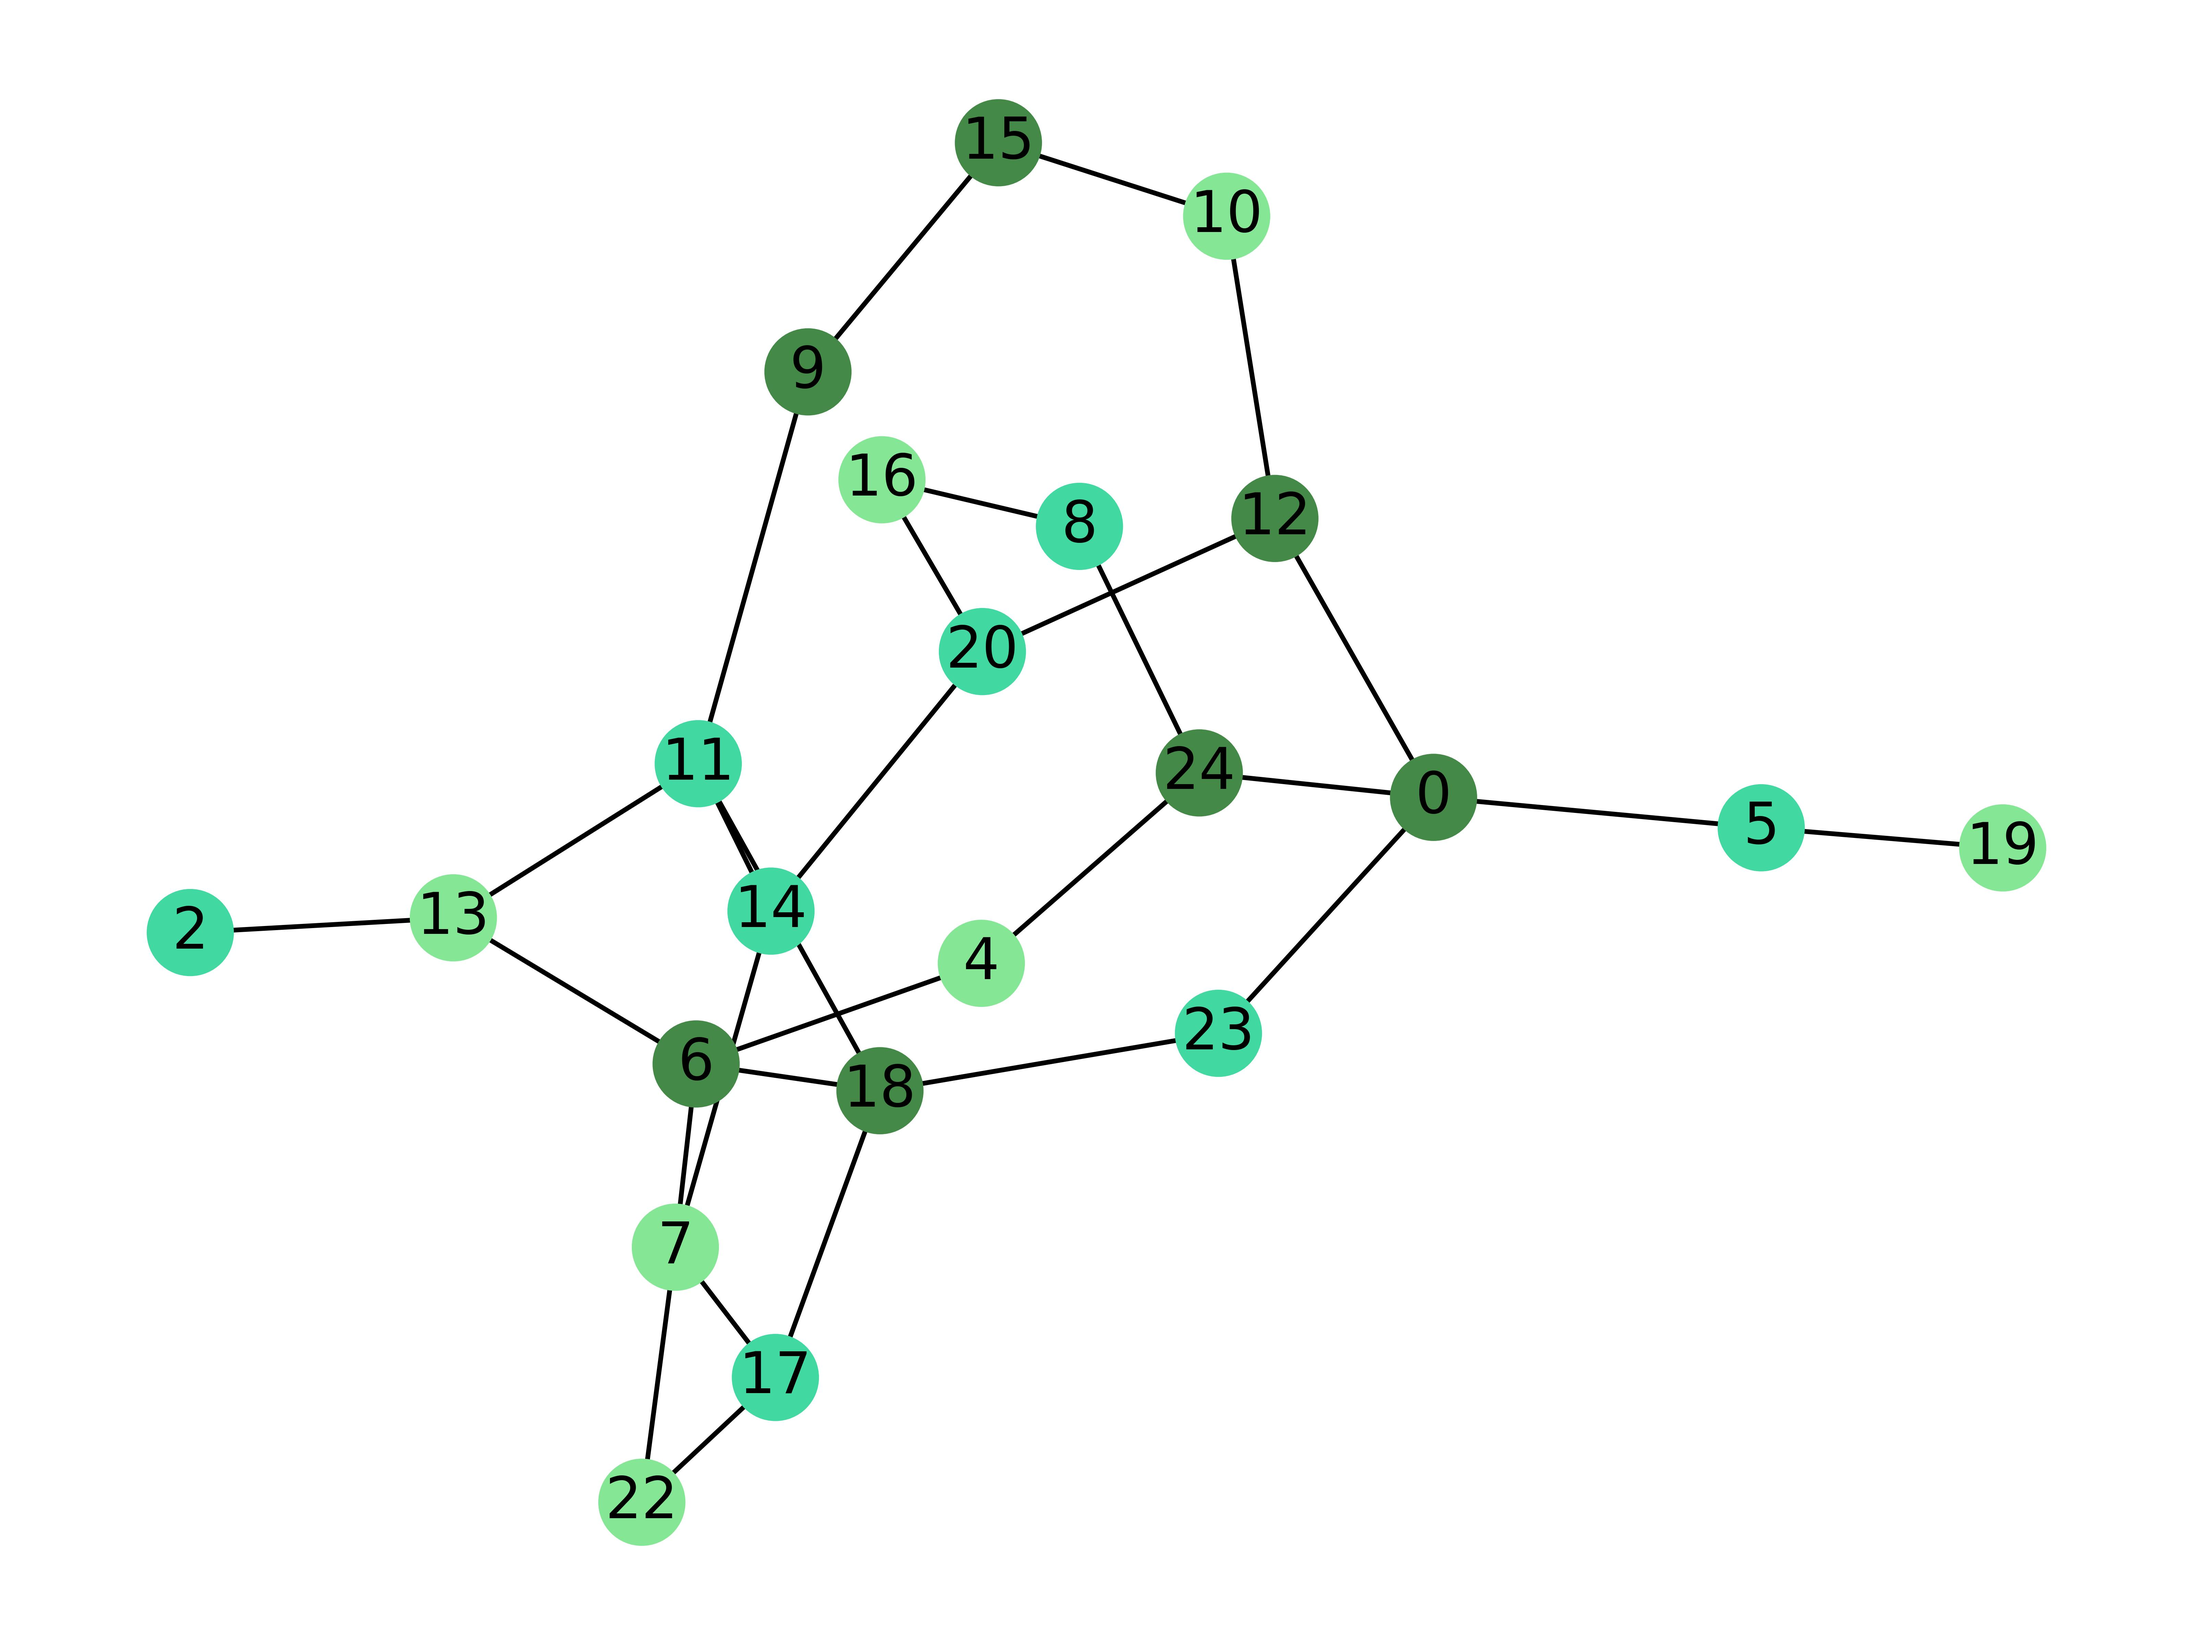
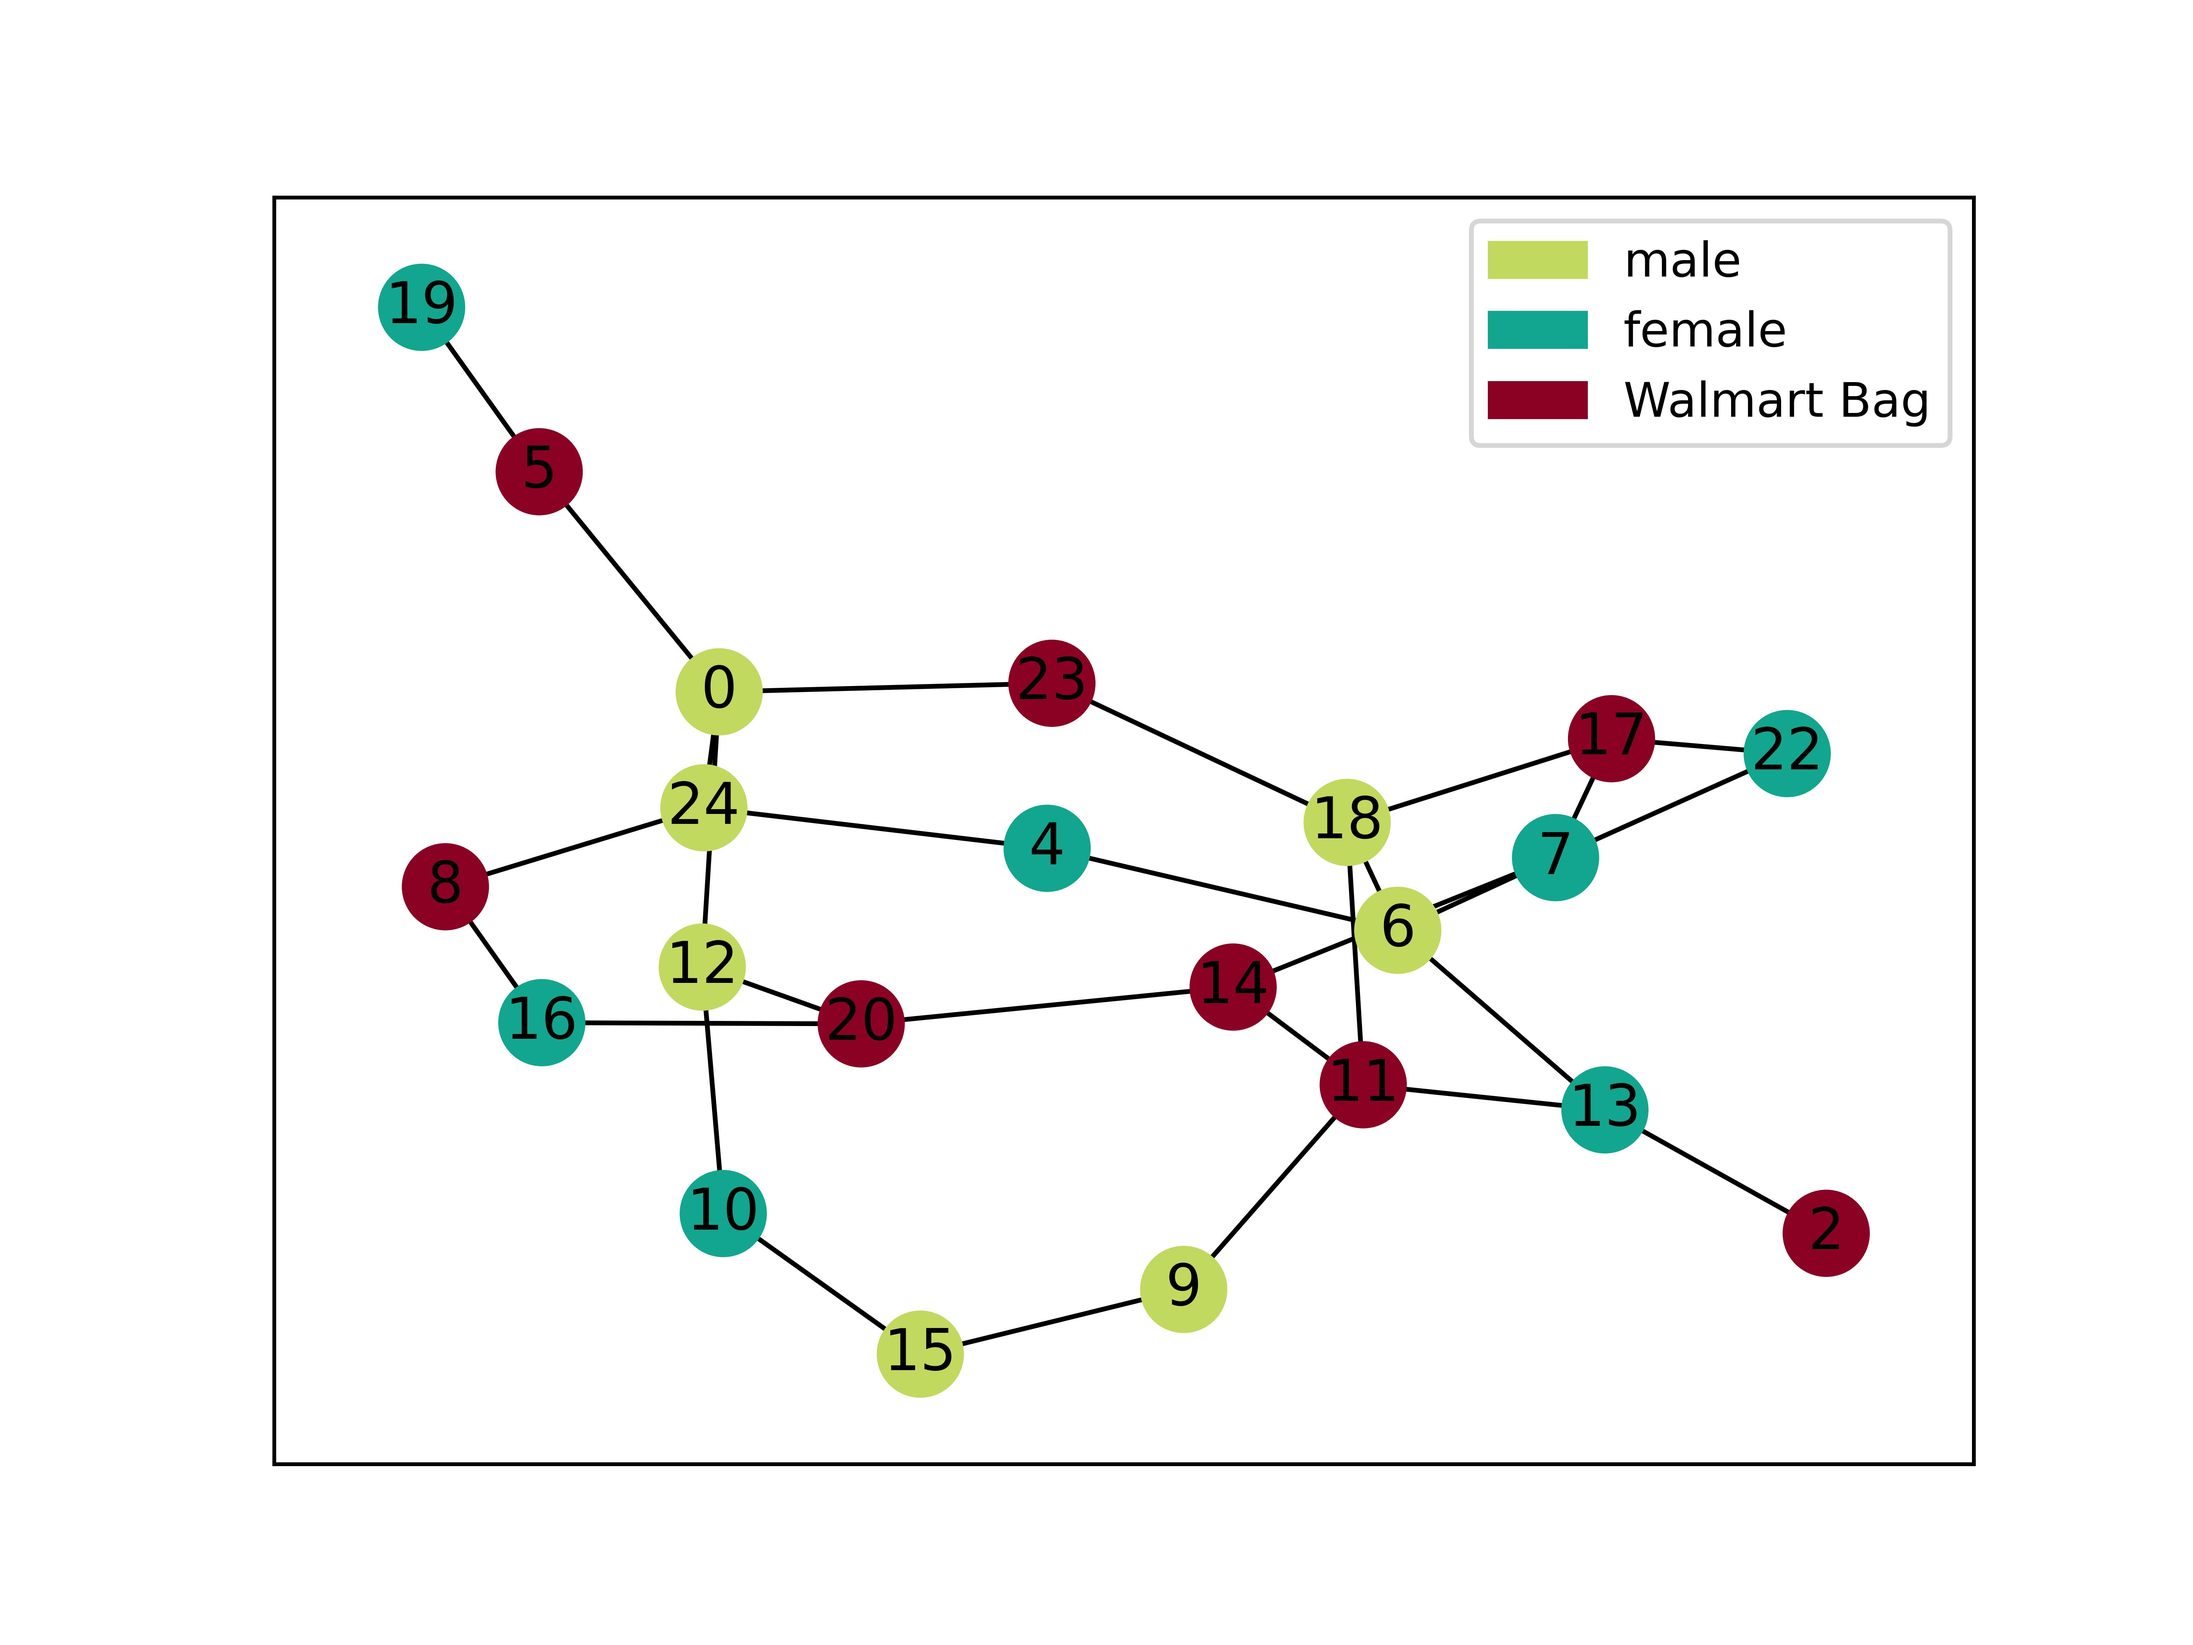
add legend

diff --git a/src/MindNet.py b/src/MindNet.py
@@ -3,6 +3,7 @@ import pandas as pd
 import networkx as nx
 import matplotlib.pyplot as plt
 import scipy as sp
+import matplotlib.patches as mpatches
 
 class MindNet():
     def __init__(self, user_id: int, df: pd.DataFrame, save_file_name: str, directed: bool):
@@ -37,7 +38,7 @@ class MindNet():
         """        
         plt.clf()
         color_map = ["#FF8C00" if node == self.user_id else "#6B8E23" for node in self.graph]
-        nx.draw(self.graph, node_color = color_map, with_labels=True)
+        nx.draw_networkx(self.graph, node_color = color_map, with_labels=True)
         plt.savefig(self.save_file_name, format = "JPG", dpi = 1000)
         
     def visualize_attr(self, attr_dic: dict):
@@ -51,7 +52,9 @@ class MindNet():
             if val not in color_dic:
                 color_dic[val] = np.random.uniform(0, 1, 3)
         color_map = [color_dic[attr_dic[node]] for node in self.graph]
-        nx.draw(self.graph, node_color = color_map, with_labels=True)
+        nx.draw_networkx(self.graph, node_color = color_map, with_labels=True)
+        handle = [mpatches.Patch(color = c, label = attr) for attr, c in color_dic.items()]
+        plt.legend(handles = handle)
         plt.savefig(self.save_file_name, format = "JPG", dpi = 1000)
         
     def visualize_degree(self):
